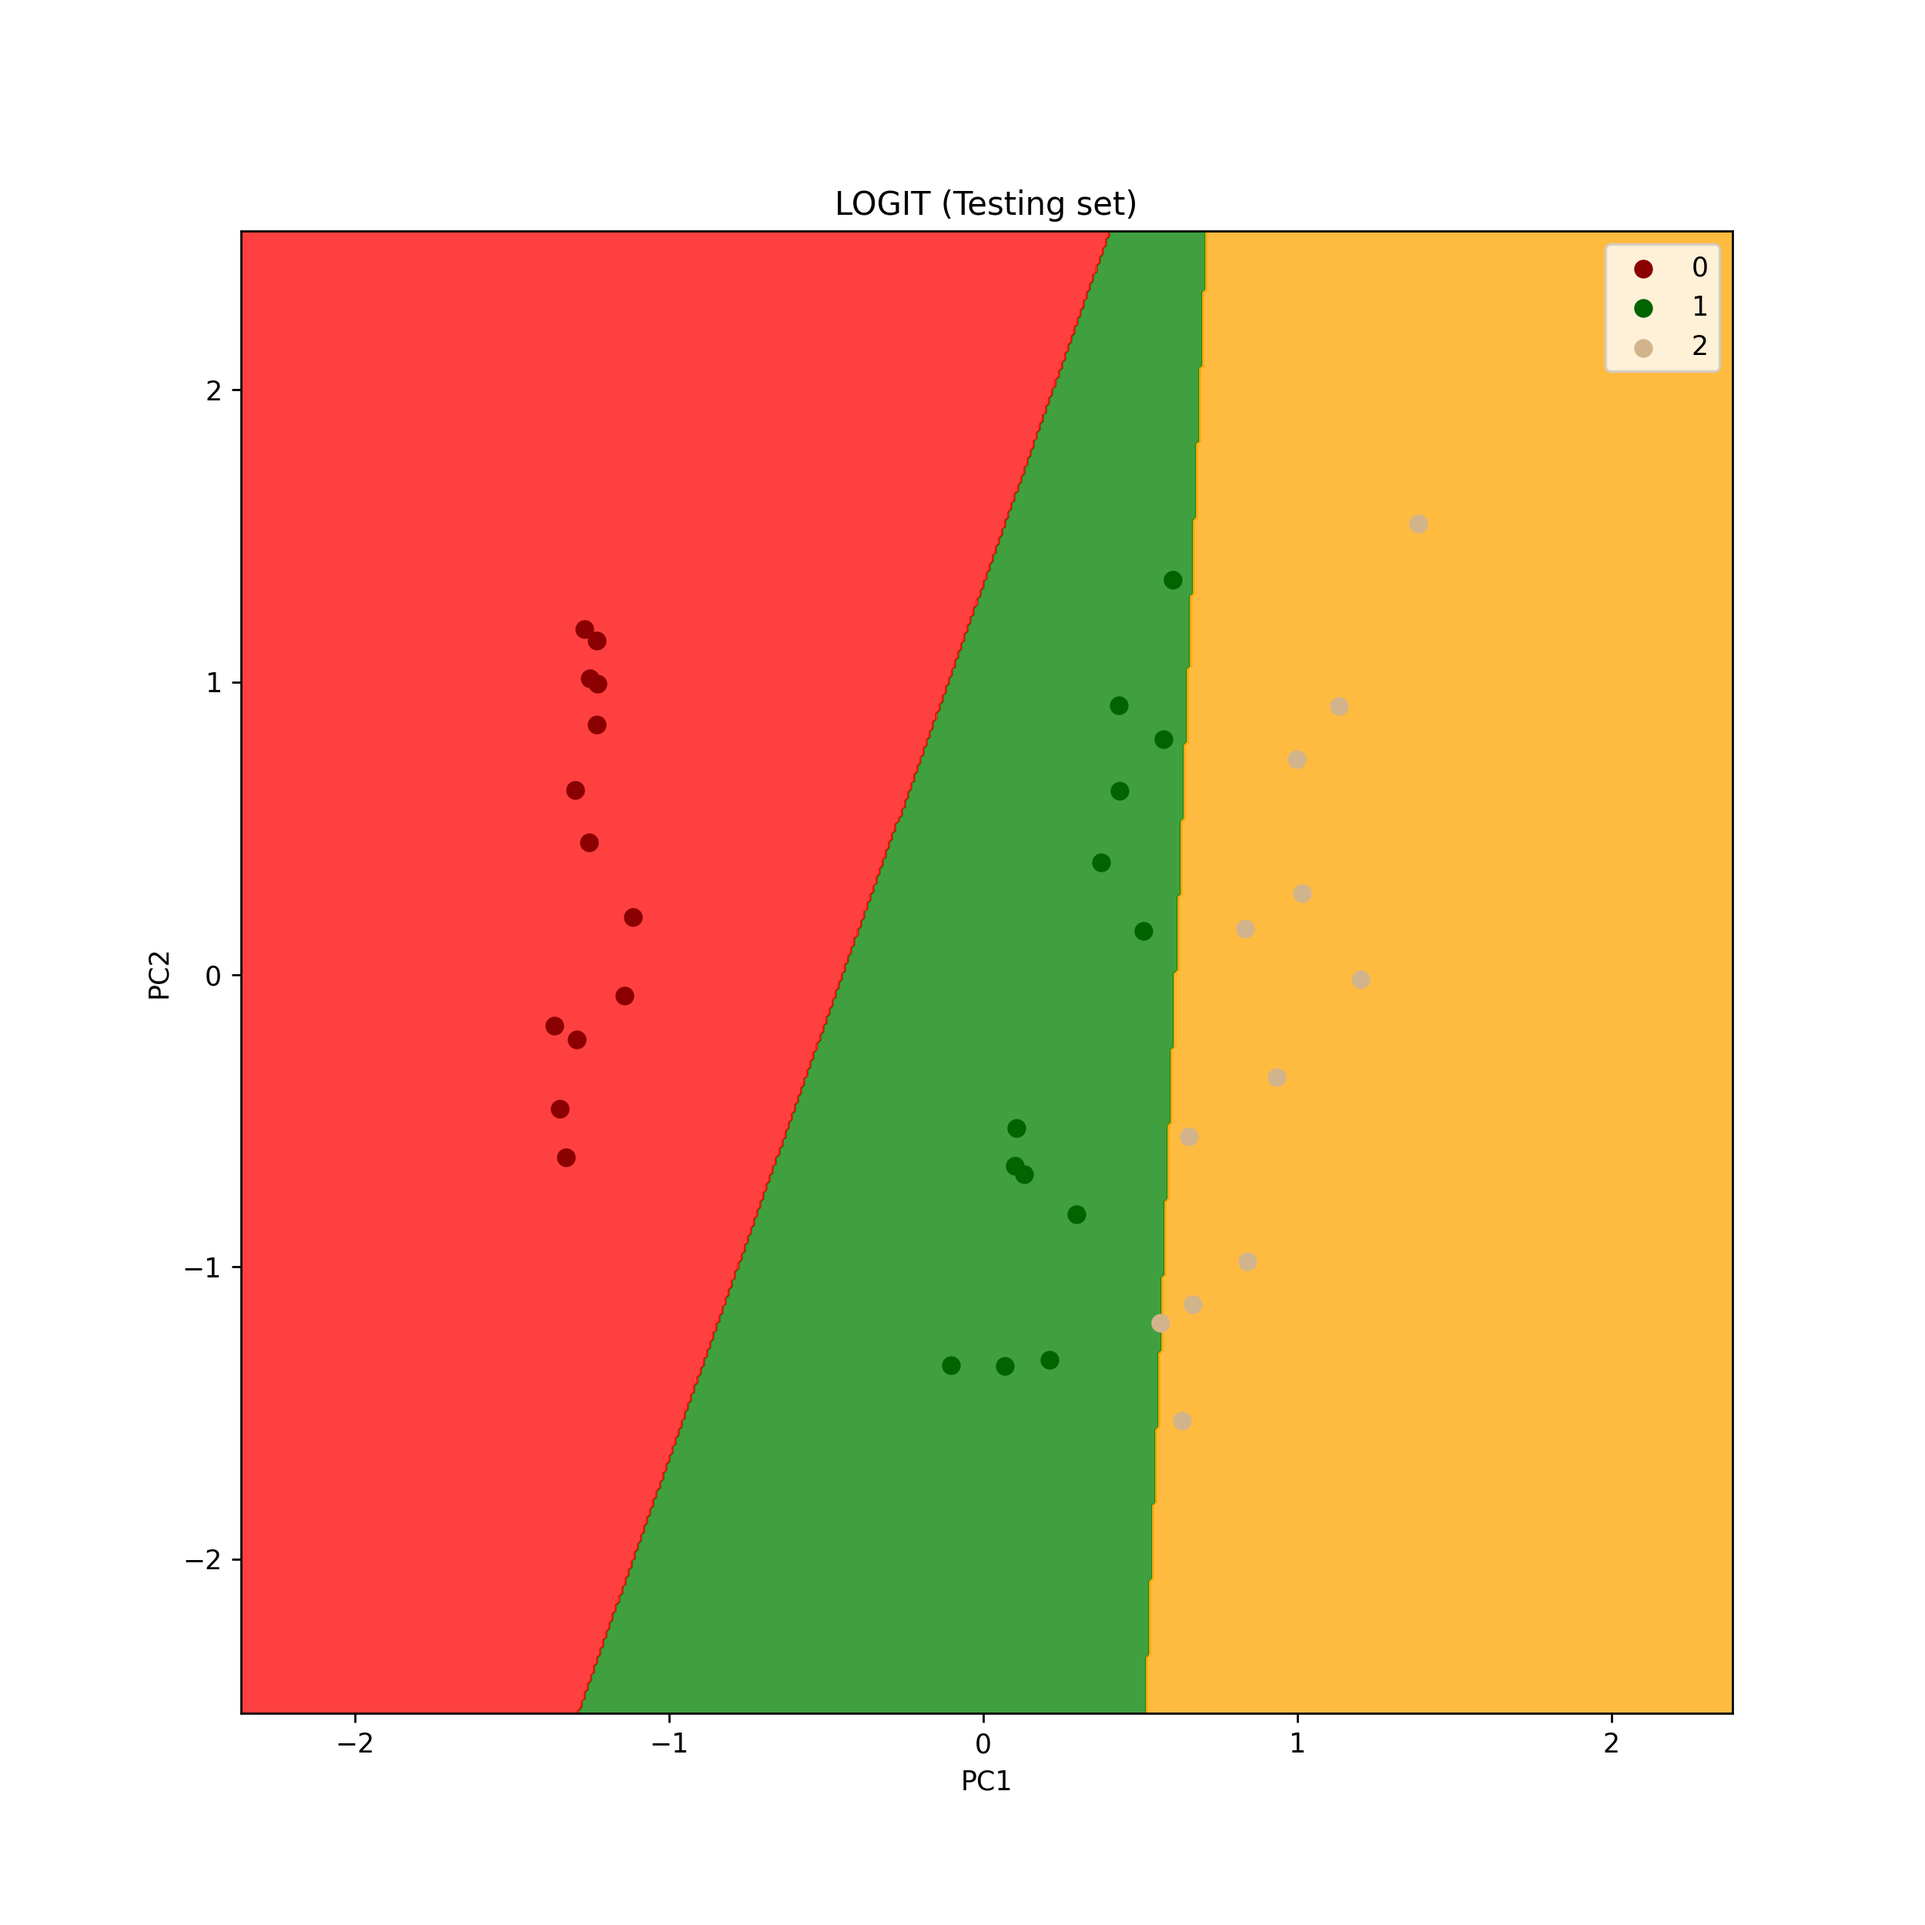
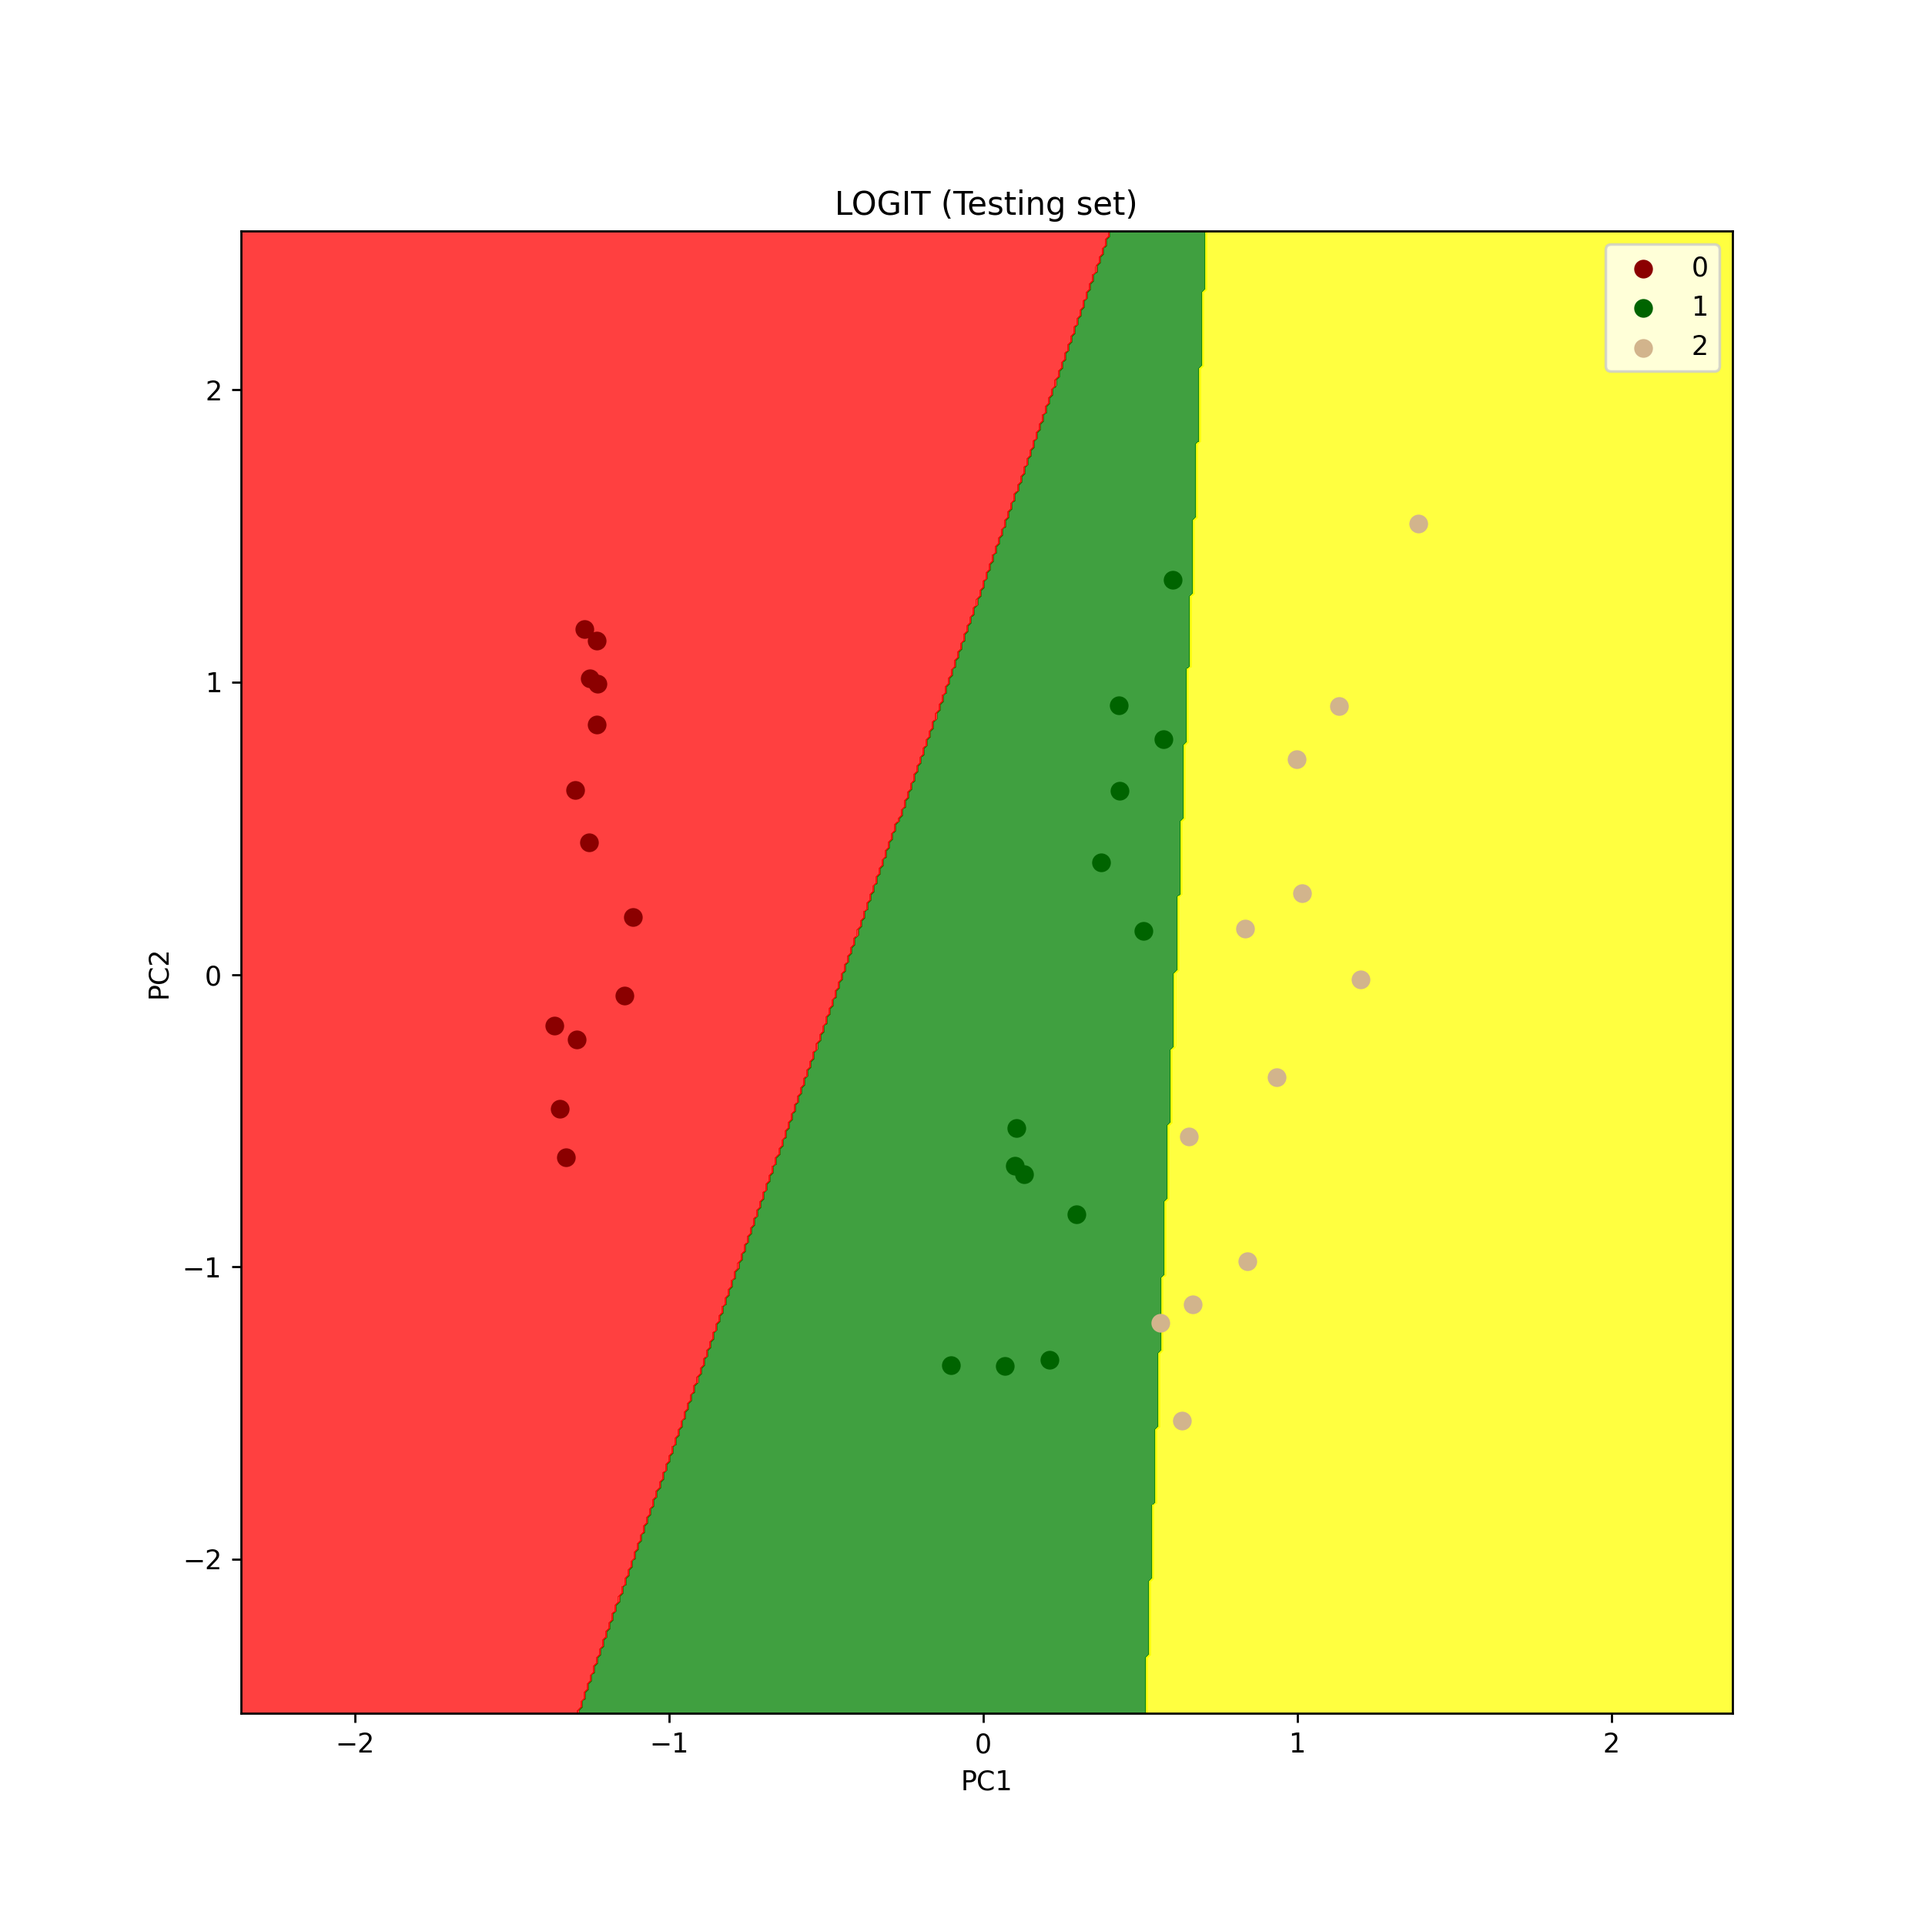
tried all models

Changed region(s): [[0.5928, 0.0936, 0.9048, 0.9048]]

diff --git a/2try_classification.py b/2try_classification.py
@@ -124,7 +124,7 @@ for ((X_set, y_set), label) in zip(set_list, set_label_list) :
     X1, X2 = np.meshgrid(np.arange(start = X_set[:, 0].min() - 1, stop = X_set[:, 0].max() + 1, step = 0.01),
                          np.arange(start = X_set[:, 1].min() - 1, stop = X_set[:, 1].max() + 1, step = 0.01))
     plt.contourf(X1, X2, classifier.predict(np.array([X1.ravel(), X2.ravel()]).T).reshape(X1.shape),
-                 alpha = 0.75, cmap = ListedColormap(('red', 'green', 'orange')))
+                 alpha = 0.75, cmap = ListedColormap(('red', 'green', 'yellow')))
     plt.xlim(X1.min(), X1.max())
     plt.ylim(X2.min(), X2.max())
     for i, j in enumerate(np.unique(y_set)):
